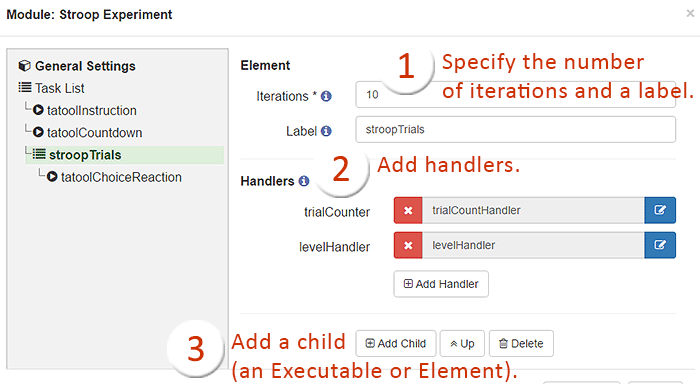
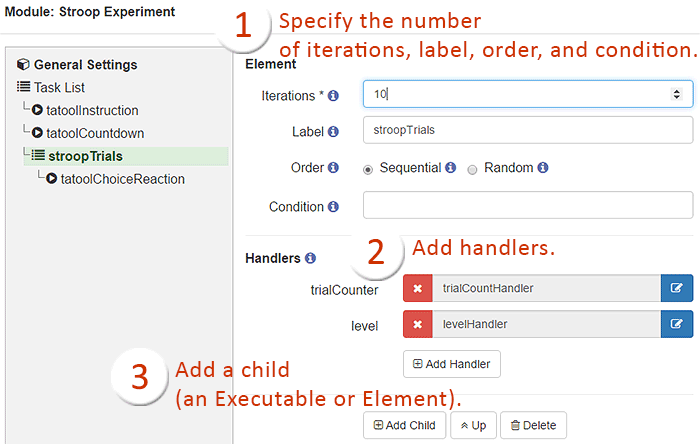
#26 add condition field for List Elements

diff --git a/app/views/doc/ref-elements.html b/app/views/doc/ref-elements.html
@@ -12,7 +12,7 @@
 
 <h3 id="list">List Element<span class="pull-right"><a href ng-click="scrollTo('top')"><i class="fa fa-caret-up fa-lg"></i></a></span></h3>
 
-<p>A List Element can contain any number of Elements or Executables that will be executed sequentially (one after another in the order as they are listed) for a specified number of times. For example, the Module in the Figure below consists of a ListElement 1 which contains Executable A, Executable B and another ListElement 2 which in turn contains n more Executables. Note that ListElement 1 is set to 3 iterations. Therefore, Tatool would execute the Module in sequential order for three times.</p>
+<p>A List Element can contain any number of Elements or Executables that will either be executed sequentially (one after another in the order as they are listed) or in random order for a specified number of times. For example, the Module in the Figure below consists of a ListElement 1 which contains Executable A, Executable B and another ListElement 2 which in turn contains n more Executables. Note that ListElement 1 is set to 3 iterations. Therefore, Tatool would execute the Module in sequential order for three times.</p>
 
 <p>
   <img src="../../images/doc/figure-elements-list.png" class="internal"><br>
@@ -24,6 +24,9 @@
 <br>[ListElement 1: <b>Iteration 2</b>] > Executable A > Executable B > [ListElement 2] > ...
 <br>[ListElement 1: <b>Iteration 3</b>] > Executable A > Executable B > [ListElement 2] > ...</p>
 
+<p><b>Order:</b> You can configure the order of execution of a List Element. You can either let the List Element execute its child elements in <b>sequential</b> or in <b>random</b> order. In case of random order, the order will be randomised at the beginning of every iteration.</p>
+
+<p><b>Condition:</b> Use the condition value in case you want to enable/disable the execution of specific Elements depending on an input value. You can provide a custom input condition for every Module execution by adding the parameter <code>c</code> and a value to your module URL (e.g. http://host/#/public/moduleId?c=group1) or by using the <code>setSessionCondition</code> method of the <a ui-sref="doc({page: 'ref-service-dbUtils.html'})">dbUtils</a> Utility Service from within your Executables. The condition has to be a string value without special characters or underscores.<br><b>Example:</b> you could provide two groups of participants with the same Module URL but a different <code>c</code> parameter (<i>group1</i>, <i>group2</i>). You want participants in group1 to see a different Instruction than participants in group2. By creating two List Elements and setting the condition to <i>group1</i> for one List Element and <i>group2</i> for the other List Element you can run the same Module but show different content depending on a condition.</p>
 
 <hr class="hr-red">
 
@@ -57,4 +60,6 @@
 </p>
 
 <p><b>Note:</b> It is possible to use a Dual Element with only a primary and without any secondary element. For example, if you want to use the <a ui-sref="doc({page: 'lib-exp-memory-span.html'})">Memory Span task</a> as a simple instead of a complex span task, select a Dual child element in the Editor, and then add only one Executable (the tatoolMemorySpan) as a child and omit the secondary element. In such a case, Tatool will first execute the selected Executable as primary element, then look for a secondary element which does not exist, and hence, immediately fall back to the primary element execution.</p>
+
+<p><b>Condition:</b> Same usage as described above for List Element.</p>
 

diff --git a/app/views/doc/use-editor.html b/app/views/doc/use-editor.html
@@ -22,7 +22,9 @@
 
 <h3 id="elements">Elements and Handlers<span class="pull-right"><a href ng-click="scrollTo('top')"><i class="fa fa-caret-up fa-lg"></i></a></span></h3>
 
-<p><a ui-sref="doc({page: 'ref-elements.html'})">Elements</a> (List or Dual Elements) group your Executables and can be executed for <i>n</i> iterations. <a ui-sref="doc({page: 'ref-handler.html'})">Handlers</a> are also set on the level of elements, which makes their functionality available to any child Executables or elements (e.g., another List Element). To see what properties can be set for the handlers, have a look at the <a ui-sref="doc({page: 'ref-handler.html'})">handlers reference</a>.</p>
+<p><a ui-sref="doc({page: 'ref-elements.html'})">Elements</a> (List or Dual Elements) group your Executables and can be executed for <i>n</i> iterations. Setting a custom Label for your Elements allows you to better distinguish between multiple Elements. You can choose between sequential or random Order of execution in case of a List Element. In case of random order, the order will be randomised at the beginning of every iteration. Take a look at <a ui-sref="doc({page: 'ref-elements.html'})">elements reference</a> to find an example on how to use Condition to dynamically enable/disable the given Element.</p>
+
+  <p><a ui-sref="doc({page: 'ref-handler.html'})">Handlers</a> are also set on the level of elements, which makes their functionality available to any child Executables or elements (e.g., another List Element). To see what properties can be set for the handlers, have a look at the <a ui-sref="doc({page: 'ref-handler.html'})">handlers reference</a>.</p>
 
 <p><img src="../../images/doc/screen-editor-element.png" class="internal"><br>
   <i>Element and Handler Settings</i></p>

diff --git a/app/scripts/module/util/listiterator.pojo.js b/app/scripts/module/util/listiterator.pojo.js
@@ -6,9 +6,9 @@ var ListIterator = function() {
 };
 
 // logic to select the next element
-ListIterator.prototype.selectNextElement = function(currentStack) {
+ListIterator.prototype.selectNextElement = function(currentStack, sessionCondition) {
   if (this.iter === null || !this.iter.hasNext()) {
-    if (this.canCreateIterator()) {
+    if (this.canCreateIterator(sessionCondition)) {
       this.createIterator(currentStack);
       this.executedIterations++;
     } else {
@@ -35,8 +35,19 @@ ListIterator.prototype.selectNextElement = function(currentStack) {
 };
 
 // checks whether we can continue iterating
-ListIterator.prototype.canCreateIterator = function() {
-  return ((this.executedIterations < this.numIterations) || (this.numIterations < 0));
+ListIterator.prototype.canCreateIterator = function(sessionCondition) {
+  var isIterator = false;
+  if (!this.condition || this.condition === '') {
+    isIterator = true;
+  } else if(this.condition === sessionCondition){
+    isIterator = true;
+  }
+
+  if (isIterator) {
+    isIterator = (this.executedIterations < this.numIterations) || (this.numIterations < 0);
+  }
+  
+  return isIterator;
 };
 
 // creates a simple iterator over child elements

diff --git a/app/views/doc/ref-service-dbUtils.html b/app/views/doc/ref-service-dbUtils.html
@@ -88,6 +88,27 @@ var sessionNr = dbUtils.getSessionNr();
 
 <hr>
 
+<p><b class="red">getSessionCondition()</b> - returns the current session condition</p>
+<p>Get the current session condition.</p>
+
+<p><b>Example</b></p>
+<pre><code class="language-javascript">
+var condition = dbUtils.getSessionCondition();
+</code></pre>
+
+<hr>
+
+<p><b class="red">setSessionCondition()</b> - sets the session condition</p>
+<p>Sets the current session condition that is being used for every List/Dual Iterator to decide whether it should be run or skipped.</p>
+
+<p><b>Example</b></p>
+<pre><code class="language-javascript">
+var condition = 'group1';
+dbUtils.setSessionCondition(condition);
+</code></pre>
+
+<hr>
+
 <p><b class="red">getHandler(handlerName)</b> - returns the Handler object</p>
 <p>In order to access the Properties created by a handler (e.g. levelHandler), you'll need to get the handler element object. The handler object can be used as the first parameter for the get/set Property methods.</p>
 

diff --git a/app/scripts/module/executor.service.js b/app/scripts/module/executor.service.js
@@ -15,6 +15,9 @@ angular.module('tatool.module')
     obj.startModule = function(){
       // create new session
       obj.currentSessionId = moduleService.createSession();
+      var extCondition = $window.sessionStorage.getItem('extCondition');
+      moduleService.setSessionCondition(extCondition);
+      $window.sessionStorage.removeItem('extCondition');
 
       // saving the module back to make sure the new session is registered in case of an error
       moduleService.saveModule().then(function() {
@@ -110,7 +113,7 @@ angular.module('tatool.module')
     var runSelector = function() {
       var iteratorObj = elementStack.stack.peek().iterator;
       if (iteratorObj) {
-        return iteratorObj.selectNextElement(elementStack.stack);
+        return iteratorObj.selectNextElement(elementStack.stack, moduleService.getSessionCondition());
       } else {
         return false;
       }

diff --git a/app/scripts/modules/app.module.js b/app/scripts/modules/app.module.js
@@ -77,7 +77,7 @@ angular.module('tatool.app', ['tatool', 'tatool.auth', 'tatool.common', 'ngAnima
           }]
         }
       }).state('public', {
-        url: '/public/:moduleId?extid',
+        url: '/public/:moduleId?extid&c',
         templateUrl: 'views/app/public_start.html',
         controller: 'PublicStartCtrl',
         resolve: {
@@ -86,6 +86,13 @@ angular.module('tatool.app', ['tatool', 'tatool.auth', 'tatool.common', 'ngAnima
               return '';
             } else {
               return $stateParams.extid;
+            }
+          }],
+          condition: ['$state', '$stateParams', function($state, $stateParams) {
+            if (!$stateParams.c) {
+              return '';
+            } else {
+              return $stateParams.c;
             }
           }],
           moduleId: ['$state', '$stateParams', function($state, $stateParams) {

diff --git a/app/scripts/app/export.service.js b/app/scripts/app/export.service.js
@@ -72,7 +72,10 @@ angular.module('tatool.app')
         sessionProperties[value.sessionId] = [];
         // add base properties
         var sessionComplete = (value.sessionComplete) ? 1 : 0;
-        sessionProperties[value.sessionId].push({key: 'session.complete', value: sessionComplete, position: -1 });
+        var sessionCondition = (value.sessionCondition) ? value.sessionCondition : '';
+        console.log(sessionCondition);
+        sessionProperties[value.sessionId].push({key: 'session.complete', value: sessionComplete, position: -2 });
+        sessionProperties[value.sessionId].push({key: 'session.condition', value: sessionCondition, position: -1 });
         // loop through user defined properties
         var properties = value.sessionProperties;
         angular.forEach(properties, function(values, element) {

diff --git a/app/scripts/app/app.public.start.ctrl.js b/app/scripts/app/app.public.start.ctrl.js
@@ -3,11 +3,12 @@
 /* global screenfull */
 
 angular.module('tatool.app')
-  .controller('PublicStartCtrl', ['$scope', '$window', '$state', 'publicService', 'moduleId', 'extid', 'moduleDataService',
-    function ($scope, $window, $state, publicService, moduleId, extid, moduleDataService) {
+  .controller('PublicStartCtrl', ['$scope', '$window', '$state', 'publicService', 'moduleId', 'extid', 'condition', 'moduleDataService',
+    function ($scope, $window, $state, publicService, moduleId, extid, condition, moduleDataService) {
 
     $scope.validModule = false;
     publicService.setExtId(extid);
+    publicService.setExtCondition(condition);
 
     if (moduleId !== '') {
       moduleDataService.getPublicModule(moduleId).then(function(module) {

diff --git a/app/scripts/module/util/session.pojo.js b/app/scripts/module/util/session.pojo.js
@@ -6,6 +6,7 @@ var Session = function(sessionId, sessionStartTime) {
   this.startTime = sessionStartTime;
   this.endTime = null;
   this.sessionToken = null;
+  this.sessionCondition = '';
   this.sessionComplete = false;
   this.maxTrialId = 0;
   this.sessionProperties = {};
@@ -24,6 +25,16 @@ Session.prototype.setSessionToken = function(token) {
 // get the sessionToken
 Session.prototype.getSessionToken = function() {
   return this.sessionToken;
+};
+
+// set the session condition
+Session.prototype.setSessionCondition = function(condition) {
+  this.sessionCondition = condition;
+};
+
+// get the session condition
+Session.prototype.getSessionCondition = function() {
+  return this.sessionCondition;
 };
 
 // mark the session as complete

diff --git a/app/scripts/app/app.public.run.ctrl.js b/app/scripts/app/app.public.run.ctrl.js
@@ -9,6 +9,7 @@ angular.module('tatool.app')
 
     var moduleId = publicService.getModuleId();
     var extid = publicService.getExtId();
+    var extCondition = publicService.getExtCondition();
 
     // module listener
     var moduleListener = function(e) {
@@ -83,7 +84,8 @@ angular.module('tatool.app')
       // set the moduleId as a session property
       $window.sessionStorage.setItem('moduleId', moduleId);
       $window.sessionStorage.setItem('mode', cfg.APP_MODE_PUBLIC);
-      
+      $window.sessionStorage.setItem('extCondition', extCondition);
+
       // open moduleUrl in Iframe
       if (moduleId) {
         startSpinner('Loading module...');

diff --git a/app/scripts/module/dbUtils.js b/app/scripts/module/dbUtils.js
@@ -43,6 +43,16 @@ angular.module('tatool.module')
     utils.getSessionNr = function() {
       return moduleService.getMaxSessionId();
     };
+
+    // set session condition
+    utils.setSessionCondition = function(condition) {
+      return moduleService.setSessionCondition(condition);
+    };
+
+    // get session condition
+    utils.getSessionCondition = function() {
+      return moduleService.getSessionCondition();
+    };
     
     // add new trial after extending it with base properties
     utils.saveTrial = function(trial, showStatusFeedback) {

diff --git a/app/scripts/app/app.public.service.js b/app/scripts/app/app.public.service.js
@@ -17,6 +17,10 @@ angular.module('tatool.app')
       return this.extId;
     };
 
+    publicStart.getExtCondition = function() {
+      return this.extCondition;
+    };
+
     publicStart.getSessionToken = function() {
       return this.module.lastSessionToken;
     };
@@ -27,6 +31,10 @@ angular.module('tatool.app')
 
     publicStart.setExtId = function(extId) {
       this.extId = extId;
+    };
+
+    publicStart.setExtCondition = function(extCondition) {
+      this.extCondition = extCondition;
     };
 
     return publicStart;
